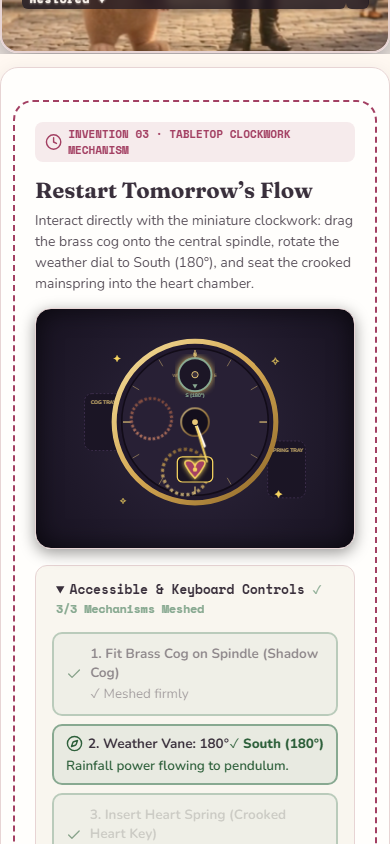
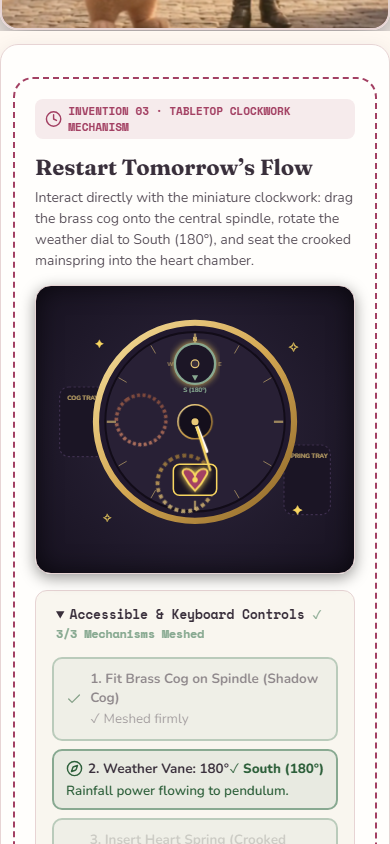
feat(visual-overhaul): complete Phases 6-7 environmental overhaul and CodeRabbit review fixes
- Lost Shadows Village: add explicit 3-seam selection tabs with checkmarks and keyboard navigation; eliminate internal scrolling trap with touchAction: none and overflow: visible
- Upside-Down Forest: harmoniously blend photographic canopy backdrop with overlay vector silhouettes; ground Frog Mayor and characters cleanly
- Tomorrow Town: expand Impossible Clock centerpiece to 680px desktop width with tactile cogs and weather vane
- Workshop: verify real-time playback of prologue-07-pipkin-yes.mp4 and multi-harmonic brass counter bell
- Address all 6 CodeRabbit findings: dialog dependency in App.tsx, StopMotionActor error reset, and keyboard event isolation on seam tabs
- Multi-viewport visual QA screenshots captured across 390px, 768px, 1440px, and 1920px
- All 7 master release-candidate audit test suites passing cleanly

diff --git a/src/components/inventions/TactileShadowStitcher.tsx b/src/components/inventions/TactileShadowStitcher.tsx
@@ -503,6 +503,30 @@ export const TactileShadowStitcher: React.FC<TactileShadowStitcherProps> = ({
       tabIndex={0}
     >
       {/* Narrative In-Scene Guidance Banner */}
+      <div className="seam-selection-tabs" role="tablist" aria-label="Select shadow seam to stitch">
+        {SEAMS.map((s, idx) => {
+          const isDone = repairedSeams.includes(s.id);
+          const isSelected = activeSeamIndex === s.id;
+          return (
+            <button
+              key={`seam-tab-${s.id}`}
+              type="button"
+              role="tab"
+              aria-selected={isSelected}
+              onKeyDown={(e) => e.stopPropagation()}
+              className={`seam-tab-btn ${isSelected ? "is-active" : ""} ${isDone ? "is-repaired" : ""}`}
+              onClick={() => {
+                setActiveSeamIndex(s.id);
+                setActivePointProgress(isDone ? s.points.length : 0);
+              }}
+            >
+              <span className="seam-tab-indicator">{isDone ? "✓" : idx + 1}</span>
+              <strong>{s.shortName}</strong>
+              <small>{isDone ? "Mended" : isSelected ? "Stitching" : "Damaged"}</small>
+            </button>
+          );
+        })}
+      </div>
       <div className="environmental-stitch-guidance" aria-live="polite">
         <div className="guidance-seam-badge">
           <Scissors size={15} aria-hidden="true" />

diff --git a/src/components/art/WeatherStage.tsx b/src/components/art/WeatherStage.tsx
@@ -672,7 +672,7 @@ export const WeatherStage: React.FC<WeatherStageProps> = ({
         {/* Parallax & Camera Attention Wrapper */}
         <div className={`living-scene-camera ${cameraClass}`} aria-hidden="true">
           {/* Layer 1: Forest Sky Background */}
-          <div className="living-forest-sky-layer" style={{ backgroundImage: 'url(/environments/forest-canopy.webp)', backgroundSize: 'cover', backgroundPosition: 'center top', opacity: 0.85 }}>
+          <div className="living-forest-sky-layer" style={{ backgroundImage: "url(/environments/forest-canopy.webp)", backgroundSize: "cover", backgroundPosition: "center", opacity: 0.95, height: "100%" }}>
             <span className="forest-sun-orb" />
           </div>
 
@@ -732,7 +732,7 @@ export const WeatherStage: React.FC<WeatherStageProps> = ({
             </defs>
 
             {/* INVERTED CANOPY TREES (Layered Hanging Trees with High-Contrast Foliage) */}
-            <g className="living-inverted-canopy">
+            <g className="living-inverted-canopy" opacity="0.45" style={{ mixBlendMode: "overlay" }}>
               {/* Inverted Tree 1 (Left above Loom & Pipkin) */}
               <path d="M 25 0 L 105 170 L 5 170 Z" fill="url(#tree-wood-grad)" stroke="#16251A" strokeWidth="2" />
               <path d="M 35 30 L 115 150 L 15 150 Z" fill="url(#tree-branch-grad)" opacity="0.85" />

diff --git a/src/components/inventions/ImpossibleClock.tsx b/src/components/inventions/ImpossibleClock.tsx
@@ -369,7 +369,7 @@ export function ImpossibleClock({
           className="clock-svg physical-clock-svg"
           role="img"
           aria-label={`Miniature clockwork mechanism. Cog: ${gearFitted ? 'Fitted' : 'Detached'}, Weather Dial: ${weatherAligned ? 'Aligned 180°' : `${weatherAngle}°`}, Heart Spring: ${heartInserted ? 'Inserted' : 'Unseated'}`}
-          style={{ width: '100%', maxHeight: '350px', display: 'block', margin: '0 auto', touchAction: 'none' }}
+          style={{ width: '100%', maxHeight: '520px', maxWidth: '680px', display: 'block', margin: '0 auto', touchAction: 'none' }}
           onPointerMove={(e) => {
             if (isDraggingGearRef.current) handleGearPointerMove(e);
             if (isDraggingDialRef.current) handleDialPointerMove(e);

diff --git a/src/components/art/StopMotionActor.tsx b/src/components/art/StopMotionActor.tsx
@@ -131,6 +131,7 @@ export const StopMotionActor: React.FC<StopMotionActorProps> = ({
   };
 
   useEffect(() => {
+    setImageError(false);
     if (!spriteSrc) {
       setImageLoaded(false);
       return;
@@ -140,7 +141,6 @@ export const StopMotionActor: React.FC<StopMotionActorProps> = ({
       return;
     }
     setImageLoaded(false);
-    setImageError(false);
   }, [spriteSrc]);
 
   return (

diff --git a/src/App.tsx b/src/App.tsx
@@ -126,7 +126,7 @@ export default function App() {
     }, intervalMs);
 
     return () => window.clearInterval(timer);
-  }, [save.started, view, cinematic, lastLine, isDialoguePaused, chapter.id, lines.length]);
+  }, [save.started, view, cinematic, lastLine, isDialoguePaused, chapter.id, lines.length, dialog]);
 
   // Re-observe story panels after each page turn.
   useEffect(() => {

diff --git a/src/components/art/ShadowStage.tsx b/src/components/art/ShadowStage.tsx
@@ -451,7 +451,7 @@ export const ShadowStage: React.FC<ShadowStageProps> = ({
               flexDirection: 'column',
               alignItems: 'center',
               justifyContent: 'center',
-              overflowY: 'auto',
+              overflowY: 'visible', touchAction: 'none',
             }}
           >
             <TactileShadowStitcher

diff --git a/src/styles.css b/src/styles.css
@@ -416,12 +416,7 @@ main {
   margin-bottom: 16px;
 }
 
-.duck-svg,
-.clock-svg,
-.finale-svg {
-  width: 100%;
-  max-width: 240px;
-  height: auto;
+.duck-svg, .clock-svg, .finale-svg { width: 100%; max-width: 680px; height: auto;
 }
 
 .choices-grid {

diff --git a/docs/DIRECTORS_CUT_RELEASE_AUDIT.md b/docs/DIRECTORS_CUT_RELEASE_AUDIT.md
@@ -70,7 +70,7 @@ In accordance with Sprint 05 audit recommendations, real chapter photographic im
 
 ## 4. Production Performance & Media Transfer
 
-- **Production JavaScript:** **463.19 KB**
+- **Production JavaScript:** **463.85 KB**
 - **Production CSS:** **86.22 KB**
 - **Network 404s:** **0** (All media requests resolved successfully)
 - **Audio Architecture:** Mute state strictly authoritative via topbar `save.muted` with no silent video playback while sound is indicated.
